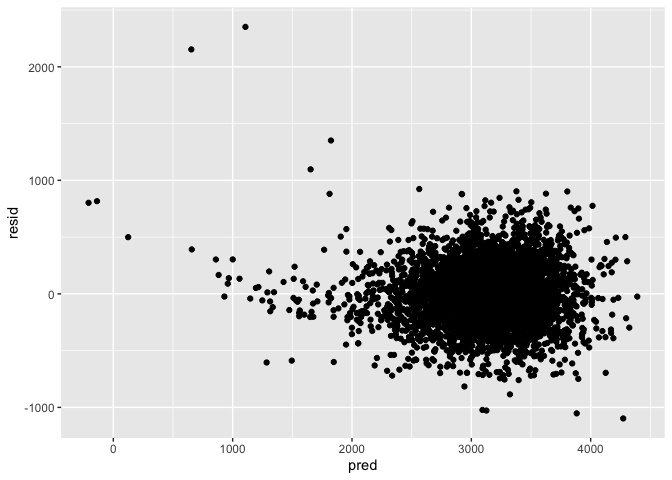
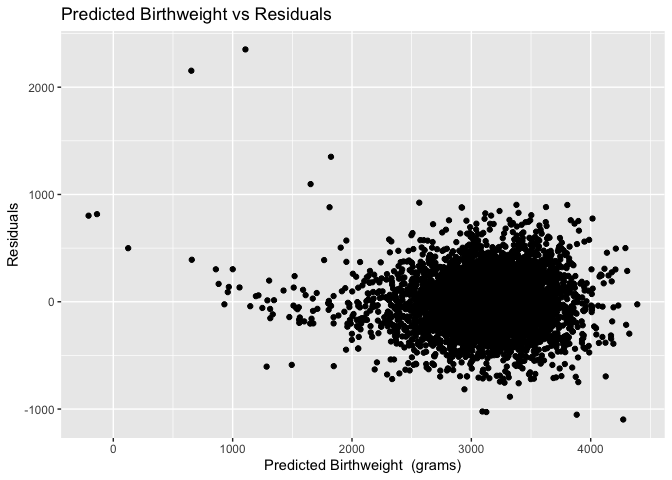
bootstrapping

diff --git a/p8105_hw6_nja2140.md b/p8105_hw6_nja2140.md
@@ -205,7 +205,12 @@ plot_1 =
   modelr::add_residuals(fit) %>% 
   modelr::add_predictions(fit) %>% 
   ggplot(aes(x = pred, y = resid)) +
-  geom_point ()
+  geom_point () +
+  labs(
+    title = "Predicted Birthweight vs Residuals",
+    x = "Predicted Birthweight  (grams)",
+    y = "Residuals"
+  )
 ```
 
     ## Warning in predict.lm(model, data): prediction from a rank-deficient fit
@@ -564,10 +569,101 @@ cv_df %>%
     names_prefix = "rmse_") %>% 
   mutate(model - fct_inorder(model)) %>% 
   ggplot(aes(x = model, y = rmse)) +
-  geom_violin ()
+  geom_violin () 
 ```
 
     ## Warning in Ops.factor(model, fct_inorder(model)): '-' not meaningful for
     ## factors
 
 ![](p8105_hw6_nja2140_files/figure-gfm/unnamed-chunk-25-1.png)<!-- -->
+From this plot, we can see model 3 is the best.
+
+Problem 2: Download the data
+
+``` r
+weather_df = 
+  rnoaa::meteo_pull_monitors(
+    c("USW00094728"),
+    var = c("PRCP", "TMIN", "TMAX"), 
+    date_min = "2017-01-01",
+    date_max = "2017-12-31") %>%
+  mutate(
+    name = recode(id, USW00094728 = "CentralPark_NY"),
+    tmin = tmin / 10,
+    tmax = tmax / 10) %>%
+  select(name, id, everything())
+```
+
+    ## Registered S3 method overwritten by 'crul':
+    ##   method                 from
+    ##   as.character.form_file httr
+
+    ## Registered S3 method overwritten by 'hoardr':
+    ##   method           from
+    ##   print.cache_info httr
+
+    ## file path:          /Users/nainaahuja/Library/Caches/rnoaa/ghcnd/USW00094728.dly
+
+    ## file last updated:  2019-09-26 07:26:09
+
+    ## file min/max dates: 1869-01-01 / 2019-09-30
+
+We’ll focus on a simple linear regression with tmax as the response and
+tmin as the predictor, and are interested in the distribution of two
+quantities estimated from these data. Use 5000 bootstrap samples and,
+for each bootstrap sample, produce estimates of these two quantities.
+
+``` r
+lm(tmax ~ tmin, data = weather_df) %>% 
+  broom::tidy()
+```
+
+    ## # A tibble: 2 x 5
+    ##   term        estimate std.error statistic   p.value
+    ##   <chr>          <dbl>     <dbl>     <dbl>     <dbl>
+    ## 1 (Intercept)     7.21    0.226       31.8 3.81e-107
+    ## 2 tmin            1.04    0.0170      61.2 2.98e-193
+
+``` r
+boot_straps =
+  weather_df %>% 
+  modelr::bootstrap(n = 5000) 
+```
+
+``` r
+coeff =
+  weather_df %>% 
+  modelr::bootstrap(n = 5000) %>% 
+  mutate(models = map(strap, ~lm(tmax ~ tmin, data = .x)),
+         results = map(models, broom::tidy)) %>% 
+  select(-strap, -models) %>% 
+  unnest(results) %>% 
+  group_by(.id) %>% 
+  summarize(log_coef = sum(log(estimate))) %>% 
+  summarize(low_int = quantile(log_coef, 0.025), up_int = quantile(log_coef, .975))
+coeff
+```
+
+    ## # A tibble: 1 x 2
+    ##   low_int up_int
+    ##     <dbl>  <dbl>
+    ## 1    1.97   2.06
+
+``` r
+r_squared =
+  weather_df %>% 
+  modelr::bootstrap(n = 5000) %>% 
+  mutate(models = map(strap, ~lm(tmax ~ tmin, data = .x)),
+         results = map(models, broom::glance)) %>% 
+  select(-strap, -models) %>% 
+  unnest(results) %>% 
+  summarize(low_int = quantile(r.squared, 0.025), up_int = quantile(r.squared, .975))
+r_squared
+```
+
+    ## # A tibble: 1 x 2
+    ##   low_int up_int
+    ##     <dbl>  <dbl>
+    ## 1   0.894  0.927
+
+Plot the distribution of your estimates, and describe these in words.
